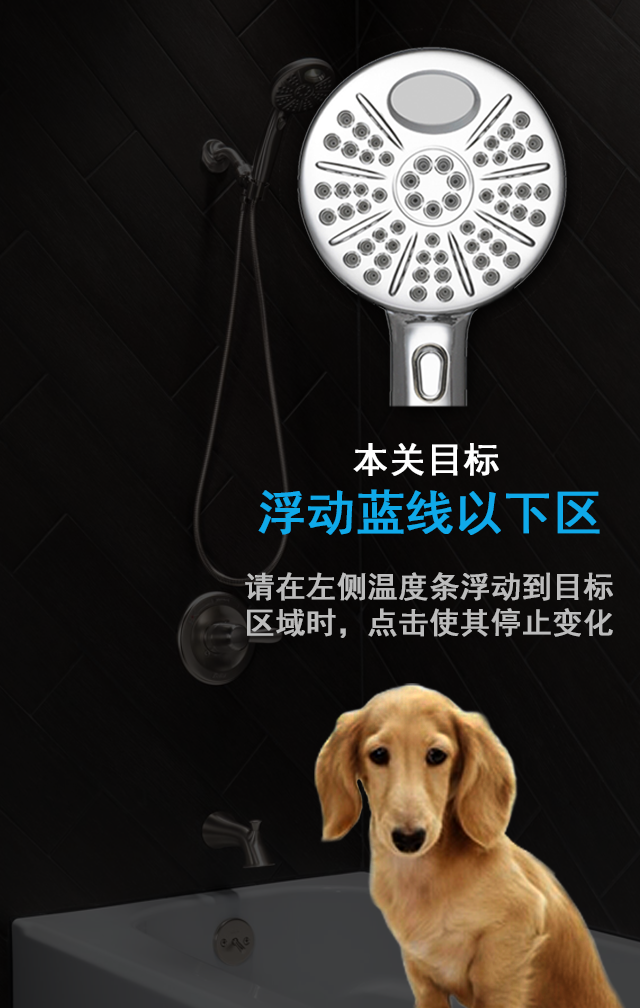
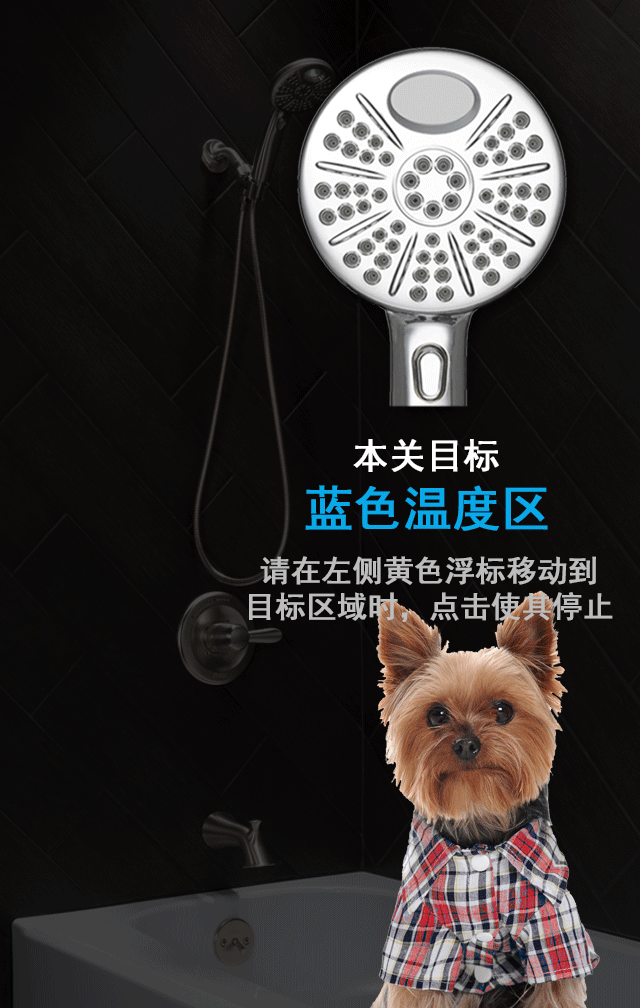
pictures

Changed region(s): [[0.375, 0.4306, 0.9688, 1.0]]

diff --git a/src/js/app-1.0.0.js b/src/js/app-1.0.0.js
@@ -78,24 +78,24 @@ $(document).ready(function(){
         loader.on("complete", handleComplete, this);
         var manifest = [
             {src:"fonts/DS-DIGI.TTF", id:"DIGI"},
-            {src:"home.png", id:"homebg"},
-            {src:"enter.png", id:"enterbtn"},
-            {src:"arrow.png", id:"arrowbtn"},
-            {src:"instruction.png", id:"instructionbg"},
-            {src:"preview1.png", id:"preview1"},
-            {src:"preview2.png", id:"preview2"},
-            {src:"temperature.png", id:"temperatureId"},
-            {src:"gameLevelBlue.png", id:"gameLevel1"},
-            {src:"gameLevelPink.png", id:"gameLevel2"},
-            {src:"gameLevelRed.png", id:"gameLevel3"},
-            {src:"gameLevelHardBlue.png", id:"gameHardLevel1"},
-            {src:"gameLevelHardPink.png", id:"gameHardLevel2"},
-            {src:"gameLevelHardRed.png", id:"gameHardLevel3"},
-            {src:"gameResultLevel1.png", id:"gameResultLevel1"},
-            {src:"gameResultLevel2.png", id:"gameResultLevel2"},
-            {src:"gameResultLevel3.png", id:"gameResultLevel3"},
-            {src:"failure.png", id:"gameFailure"},
-            {src:"submit.png", id:"gameSuccess"}
+            {src:"images/home.png", id:"homebg"},
+            {src:"images/enter.png", id:"enterbtn"},
+            {src:"images/arrow.png", id:"arrowbtn"},
+            {src:"images/instruction.png", id:"instructionbg"},
+            {src:"images/preview1.png", id:"preview1"},
+            {src:"images/preview2.png", id:"preview2"},
+            {src:"images/temperature.png", id:"temperatureId"},
+            {src:"images/gameLevelBlue.png", id:"gameLevel1"},
+            {src:"images/gameLevelPink.png", id:"gameLevel2"},
+            {src:"images/gameLevelRed.png", id:"gameLevel3"},
+            {src:"images/gameLevelHardBlue.png", id:"gameHardLevel1"},
+            {src:"images/gameLevelHardPink.png", id:"gameHardLevel2"},
+            {src:"images/gameLevelHardRed.png", id:"gameHardLevel3"},
+            {src:"images/gameResultLevel1.png", id:"gameResultLevel1"},
+            {src:"images/gameResultLevel2.png", id:"gameResultLevel2"},
+            {src:"images/gameResultLevel3.png", id:"gameResultLevel3"},
+            {src:"images/failure.png", id:"gameFailure"},
+            {src:"images/submit.png", id:"gameSuccess"}
         ];
         loader.loadManifest(manifest);
     }
@@ -258,6 +258,26 @@ $(document).ready(function(){
             lowerBar.y = getLevel2();
             lowerBar.removeAllEventListeners("click");
             stage.addChild(lowerBar);
+        } else if (currentLevel > 3) {
+            if (category === 0) {
+                lowerBar = null;
+                upperBar = new createjs.Shape();
+                upperBar.up = true;
+                upperBar.setBounds(x, 0, w, 15);
+                upperBar.graphics.beginFill("#3BAEED").drawRoundRect(x, 0, w, barHeight, 6);
+                upperBar.y = getLevel1();
+                upperBar.removeAllEventListeners("click");
+                stage.addChild(upperBar);
+            } else {
+                lowerBar = new createjs.Shape();
+                lowerBar.up = true;
+                lowerBar.setBounds(x, 0, w, 15);
+                lowerBar.graphics.beginFill("#F92036").drawRoundRect(x, 0, w, barHeight, 6);
+                lowerBar.y = getLevel2();
+                lowerBar.removeAllEventListeners("click");
+                stage.addChild(lowerBar);
+                upperBar = null;
+            }
         }
 
         createjs.Ticker.setPaused(false);
@@ -274,10 +294,10 @@ $(document).ready(function(){
                 levelLowerThreshold = getLevel3();
                 levelUpperThreshold = getLevel2();
             }
-            var speed = 8;
+            var speed = 9;
             speed = parseInt(speed * 2 * scaleY);
             speed *=  currentLevel;
-            tick(e, speed, levelLowerThreshold, levelUpperThreshold);
+            tick(e, speed, category);
         });
 //                var temperature = new createjs.Text("20", "20px Helvetica", "#3BAEED");
 //                temperature.x = width * 0.64;
@@ -311,7 +331,6 @@ $(document).ready(function(){
         temperature.y = height * 0.08;
         stage.addChild(temperature);
         stage.update();
-
         if (currentLevel > 6) {
             if (category === 0 && (pauseBar.y < lowerBar.y)) {
                 console.log("Position" + pauseBar.y);
@@ -326,6 +345,25 @@ $(document).ready(function(){
             } else if (category === 1 && (pauseBar.y < upperBar.y || pauseBar.y > lowerBar.y)) {
                 console.log("Position" + pauseBar.y);
                 console.log("Exceed Threshold" + upperBar.y + " : " + lowerBar.y);
+                createjs.Ticker.removeAllEventListeners("tick");
+                wait(gameFailureScene, number, category);
+            } else {
+                wait(gameSceneResult, number, category);
+            }
+        } else  if (currentLevel > 3) {
+            if (category === 0 && (pauseBar.y < upperBar.y)) {
+                console.log("Position" + pauseBar.y);
+                console.log("Exceed Upper Threshold" + " : " + upperBar.y);
+                createjs.Ticker.removeAllEventListeners("tick");
+                wait(gameFailureScene, number, category);
+            } else if (category === 2 && (pauseBar.y > lowerBar.y)) {
+                console.log("Position" + pauseBar.y);
+                console.log("Exceed Lower Threshold" + " : " + lowerBar.y);
+                createjs.Ticker.removeAllEventListeners("tick");
+                wait(gameFailureScene, number, category);
+            } else if (category === 1 && (pauseBar.y > levelUpperThreshold || pauseBar.y < lowerBar.y)) {
+                console.log("Position" + pauseBar.y);
+                console.log("Exceed Threshold" + levelUpperThreshold +  " : " + lowerBar.y);
                 createjs.Ticker.removeAllEventListeners("tick");
                 wait(gameFailureScene, number, category);
             } else {
@@ -401,17 +439,27 @@ $(document).ready(function(){
 //    var pauseBarUp = true;
 //    var upperBarUp = true;
 //    var lowerBarUp = true;
-    function tick(event, speed, levelLowerThreshold, levelUpperThreshold) {
-        if (!createjs.Ticker.getPaused()) {
-            move(pauseBar, getCeilingY(), getFloorY(), speed);
-            if (currentLevel > 6) {
-                var speed2 =  10;
-                speed2 = parseInt(speed2 * 2 * scaleY);
-                move(upperBar, parseInt(getLevel2() - height * 0.15), parseInt(getLevel2() + height * 0.15), speed2);
-                move(lowerBar, parseInt(getLevel1() - height * 0.15), parseInt(getLevel1() + height * 0.15), speed2);
+    function tick(event, speed, category) {
+        return function(event, speed, category) {
+            if (!createjs.Ticker.getPaused()) {
+                move(pauseBar, getCeilingY(), getFloorY(), speed);
+                if (currentLevel > 6) {
+                    var speed2 =  10;
+                    speed2 = parseInt(speed2 * 2 * scaleY);
+                    move(upperBar, parseInt(getLevel2() - height * 0.15), parseInt(getLevel2() + height * 0.15), speed2);
+                    move(lowerBar, parseInt(getLevel1() - height * 0.15), parseInt(getLevel1() + height * 0.15), speed2);
+                } else if (currentLevel > 3) {
+                    var speed2 =  10;
+                    speed2 = parseInt(speed2 * 2 * scaleY);
+                    if (category === 0) {
+                        move(upperBar, parseInt(getLevel1() - height * 0.15), parseInt(getLevel1() + height * 0.15), speed2);
+                    } else {
+                        move(lowerBar, parseInt(getLevel2() - height * 0.15), parseInt(getLevel2() + height * 0.15), speed2);
+                    }
+                }
             }
-        }
-        stage.update(event); // important!!
+            stage.update(event); // important!!
+        }(event, speed, category);
     }
 
     function move(pauseBar, ceiling, floor, speed) {

diff --git a/src/server/database/DbConfig.php b/src/server/database/DbConfig.php
@@ -5,8 +5,8 @@
 // $password = 'AbC123';
 namespace database;
 class DbConfig {
-    const DB_HOST = 'localhost';
-    const DB_NAME = 'app_delta';
-    const DB_USER = 'root';
-    const DB_PASSWORD = 'AbC123';
+    const DB_HOST = 'w.rdc.sae.sina.com.cn:3307';
+    const DB_NAME = 'app_beyondwechattest';
+    const DB_USER = 'o3wo4o4j0y';
+    const DB_PASSWORD = '1wx1j52k4y5lixiw20iz4hm5yy3y2x23y43wi2i4';
 }
